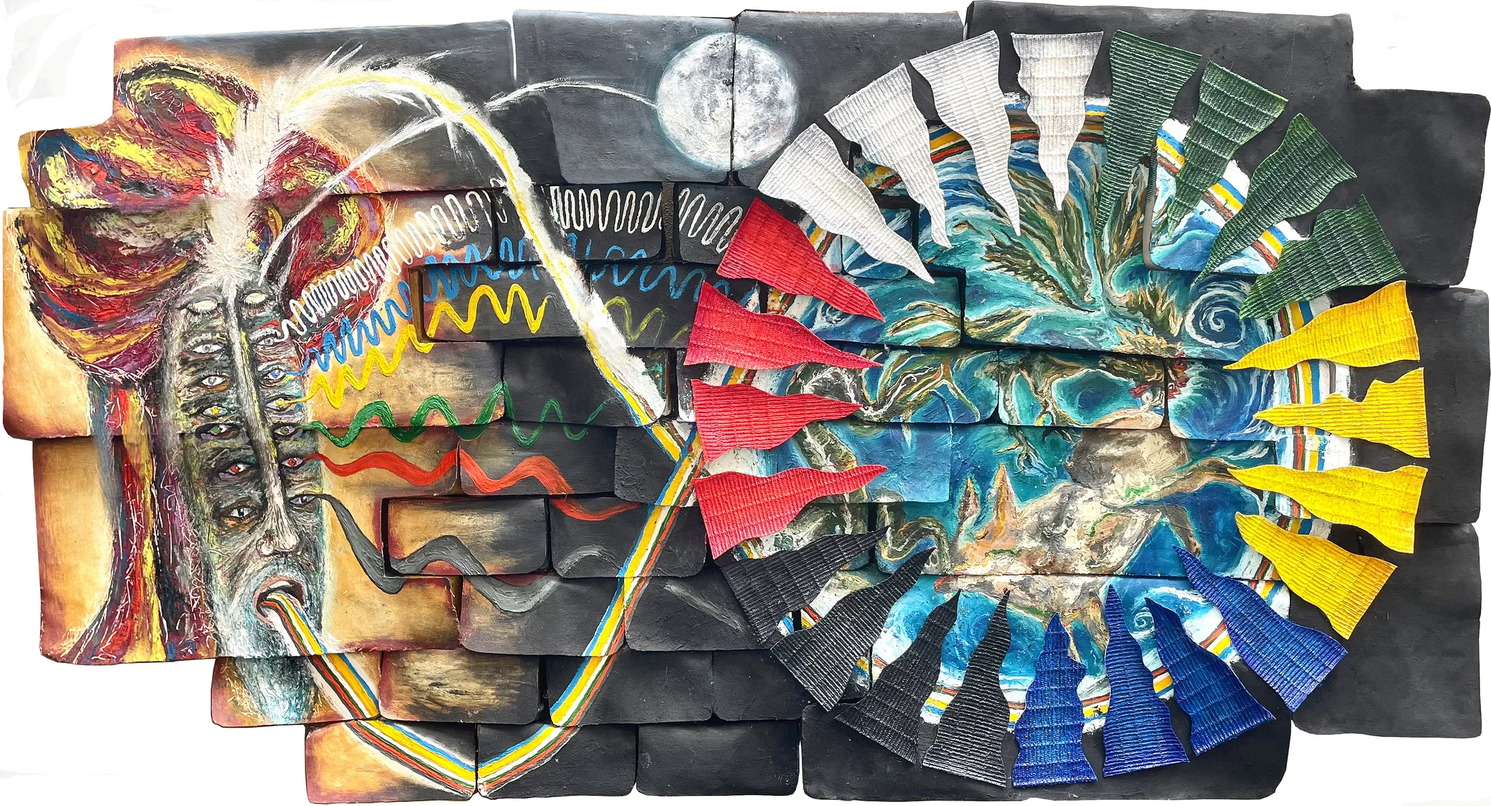
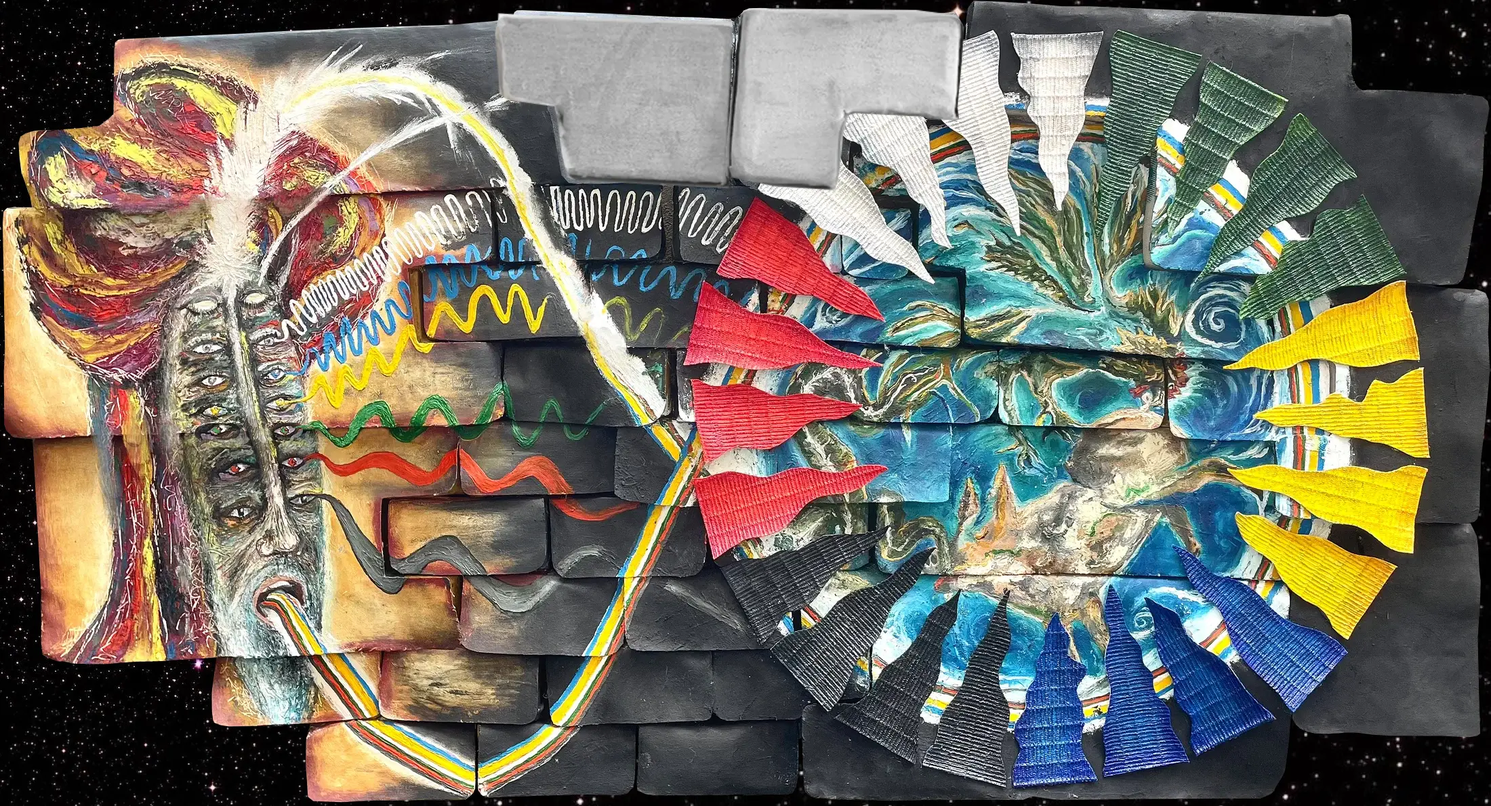
assets: piedras reales + cambios locales Board/Dice/Samsara

diff --git a/src/UI/DicePopup.tsx b/src/UI/DicePopup.tsx
@@ -57,10 +57,7 @@ function CubicDie({ value, rolling, color, size = 76, skin, stone = true }: {
   const pips = PIPS[display] ?? [];
 
   if (stone) {
-    // Carved-stone dice: no real photo texture available, so this is a CSS
-    // approximation — a mottled radial-gradient sphere with drilled-hole
-    // pips, tan/ochre for White and charcoal-grey for Black (matching the
-    // reference photo's two stones).
+    const stoneFaceSrc = skin?.faces?.[display as 1 | 2 | 3 | 4 | 5 | 6] ?? null;
     const stoneBg = isDark ? STONE_GRADIENT.black : STONE_GRADIENT.white;
     const ring = isDark ? STONE_RING.black : STONE_RING.white;
 
@@ -69,42 +66,64 @@ function CubicDie({ value, rolling, color, size = 76, skin, stone = true }: {
         width: size,
         height: size,
         borderRadius: "50%",
-        background: stoneBg,
+        background: stoneFaceSrc ? "#000" : stoneBg,
         border: `1px solid ${ring}`,
         boxShadow: STONE_SHADOW,
         boxSizing: "border-box",
         position: "relative",
+        overflow: "hidden",
         animation: rolling
           ? "dieRoll 0.08s ease-in-out infinite"
           : "dieLand 0.3s cubic-bezier(0.2,0.8,0.4,1) forwards",
         flexShrink: 0,
       }}>
-        {WEATHER_PITS.map(([px, py, pr], i) => (
-          <div key={`w${i}`} style={{
-            position: "absolute",
-            left: `${px * 100}%`,
-            top: `${py * 100}%`,
-            width: size * pr,
-            height: size * pr,
-            transform: "translate(-50%,-50%)",
-            borderRadius: "50%",
-            background: "radial-gradient(circle at 35% 30%, rgba(0,0,0,0.35), rgba(0,0,0,0.12) 70%, transparent 100%)",
-          }} />
-        ))}
-
-        {pips.map(([c, r], i) => (
-          <div key={i} style={{
-            position: "absolute",
-            left: `${((c + 0.5) / 3) * 100}%`,
-            top: `${((r + 0.5) / 3) * 100}%`,
-            width: size * 0.17,
-            height: size * 0.17,
-            transform: "translate(-50%,-50%)",
-            borderRadius: "50%",
-            background: "radial-gradient(circle at 35% 30%, rgba(0,0,0,0.95), rgba(0,0,0,0.65) 55%, rgba(0,0,0,0.3) 100%)",
-            boxShadow: "inset 0 1px 2px rgba(0,0,0,0.9), 0 1px 0 rgba(255,255,255,0.08)",
-          }} />
-        ))}
+        {stoneFaceSrc ? (
+          // Real carved-stone disc photo — see src/assets/dice/primitive/
+          // and src/game/dice/eraDiceSkins.ts. object-fit:cover + the
+          // round clip above crops out the photo's black square corners.
+          <img
+            src={stoneFaceSrc}
+            alt={`face ${display}`}
+            draggable={false}
+            style={{
+              width: "100%",
+              height: "100%",
+              objectFit: "cover",
+              pointerEvents: "none",
+            }}
+          />
+        ) : (
+          <>
+            {/* No photo for this value yet — CSS approximation fallback:
+                mottled gradient sphere with drilled-hole pips. */}
+            <div style={{ position: "absolute", inset: 0, background: stoneBg }} />
+            {WEATHER_PITS.map(([px, py, pr], i) => (
+              <div key={`w${i}`} style={{
+                position: "absolute",
+                left: `${px * 100}%`,
+                top: `${py * 100}%`,
+                width: size * pr,
+                height: size * pr,
+                transform: "translate(-50%,-50%)",
+                borderRadius: "50%",
+                background: "radial-gradient(circle at 35% 30%, rgba(0,0,0,0.35), rgba(0,0,0,0.12) 70%, transparent 100%)",
+              }} />
+            ))}
+            {pips.map(([c, r], i) => (
+              <div key={i} style={{
+                position: "absolute",
+                left: `${((c + 0.5) / 3) * 100}%`,
+                top: `${((r + 0.5) / 3) * 100}%`,
+                width: size * 0.17,
+                height: size * 0.17,
+                transform: "translate(-50%,-50%)",
+                borderRadius: "50%",
+                background: "radial-gradient(circle at 35% 30%, rgba(0,0,0,0.95), rgba(0,0,0,0.65) 55%, rgba(0,0,0,0.3) 100%)",
+                boxShadow: "inset 0 1px 2px rgba(0,0,0,0.9), 0 1px 0 rgba(255,255,255,0.08)",
+              }} />
+            ))}
+          </>
+        )}
 
         <style>{`
           @keyframes dieRoll {
@@ -212,14 +231,17 @@ type Props = {
   onDismiss: () => void;
 };
 
-// Positioned inside the 1100x620 samsaraScene coordinate space, in the gap
-// between Mara's face (eyes sit around x:118-164) and the ring wheel (whose
-// scaled edge starts around x:481). The "roll" portal button lives in the
-// upper half of that same gap (~x:300-390, y:255-345), so the vertical dice
-// stack sits just below it, in the lower half of the gap, to avoid covering
-// it. See GameShell.tsx for where this is mounted.
-const HUD_LEFT = 300;
-const HUD_TOP = 380;
+// Positioned inside the 1100x620 samsaraScene coordinate space, directly
+// above the roll button (the "spinning dice" — nudged down to top:44% in
+// Board.tsx, center ~x:347, y:230-320). Side-by-side (not stacked) so the
+// block only needs ~150px of height instead of ~290px, which is what let
+// it clear every neighbor at once: Mara's eyes (x:118-164, y:178-182),
+// SacredProgress (x:-2-178, y:-3-177), the ring (retreats past x:500+
+// this high up), and the blue Buddha "Dharma Emergencies" icon lower down
+// (~x:434-563, y:456-585). See GameShell.tsx for mount.
+const HUD_LEFT = 214;
+const HUD_TOP = 20;
+const DIE_SIZE = 128; // 2x the original 64px per the 2nd round of feedback
 
 export function DicePopup({ visible, rollA, rollB, rolling, turn, onDismiss }: Props) {
   useEffect(() => {
@@ -247,16 +269,16 @@ export function DicePopup({ visible, rollA, rollB, rolling, turn, onDismiss }: P
         cursor: "pointer",
       }}
     >
-      {/* Los dos dados del turno activo, apilados en columna vertical */}
+      {/* Los dos dados del turno activo, en fila horizontal, encima del botón de tirar */}
       <div style={{
         display: "flex",
         flexDirection: "column",
-        gap: 14,
+        gap: 6,
         alignItems: "center",
         filter: "drop-shadow(0 8px 24px rgba(0,0,0,0.7))",
       }}>
         <div style={{
-          fontSize: 11,
+          fontSize: 12,
           fontWeight: 800,
           letterSpacing: 1.2,
           textTransform: "uppercase",
@@ -265,8 +287,10 @@ export function DicePopup({ visible, rollA, rollB, rolling, turn, onDismiss }: P
         }}>
           {label}
         </div>
-        <CubicDie value={rollA} rolling={rolling} color={color} size={64} skin={skin} />
-        <CubicDie value={rollB} rolling={rolling} color={color} size={64} skin={skin} />
+        <div style={{ display: "flex", flexDirection: "row", gap: 10 }}>
+          <CubicDie value={rollA} rolling={rolling} color={color} size={DIE_SIZE} skin={skin} />
+          <CubicDie value={rollB} rolling={rolling} color={color} size={DIE_SIZE} skin={skin} />
+        </div>
       </div>
     </div>
   );

diff --git a/src/game/dice/eraDiceSkins.ts b/src/game/dice/eraDiceSkins.ts
@@ -12,16 +12,20 @@
 // deleted — see src/assets/dice/dice_white_portal.* and
 // src/assets/dice/dice_black_portal.* — it's simply not the active skin
 // right now. It stays available for a future era to reuse.
+//
+// The original placeholder leaf/clover SVGs (face_1.svg...face_6.svg) are
+// also kept in src/assets/dice/primitive/ but are no longer imported here —
+// replaced by the real carved-stone disc photos below.
 
 import type { EraId } from "../era";
 import { CURRENT_ERA } from "../era";
 
-import leafOne from "../../assets/dice/primitive/face_1.svg";
-import leafTwo from "../../assets/dice/primitive/face_2.svg";
-import cloverThree from "../../assets/dice/primitive/face_3.svg";
-import cloverFour from "../../assets/dice/primitive/face_4.svg";
-import leafFive from "../../assets/dice/primitive/face_5.svg";
-import leafSix from "../../assets/dice/primitive/face_6.svg";
+import discOne from "../../assets/dice/primitive/disco_1_hoja.webp";
+import discTwo from "../../assets/dice/primitive/disco_2_hojas.webp";
+import discThree from "../../assets/dice/primitive/disco_3_colmillos.webp";
+import discFour from "../../assets/dice/primitive/disco_4_manos.webp";
+import discFive from "../../assets/dice/primitive/disco_5_lanzas.webp";
+import discSix from "../../assets/dice/primitive/disco_6_huesos.webp";
 
 export type DiceFaceValue = 1 | 2 | 3 | 4 | 5 | 6;
 
@@ -32,18 +36,18 @@ export interface DiceSkin {
   faces: Record<DiceFaceValue, string>;
 }
 
-// Provisional Era 1 dice — inspired by 2.5 million years of nature: leaves
-// and clovers standing in for pips. Placeholder art, not final design.
+// Era 1 dice — carved stone/bone discs: 1 leaf, 2 leaves, 3 fangs, 4 hands,
+// 5 spears, 6 bones. Real reference photos, dropped in by hand.
 export const PRIMITIVE_DICE_SKIN: DiceSkin = {
-  id: "primitive-leaves",
-  label: "Primitive Era — Leaves & Clovers",
+  id: "primitive-stone-discs",
+  label: "Primitive Era — Stone Discs",
   faces: {
-    1: leafOne,
-    2: leafTwo,
-    3: cloverThree,
-    4: cloverFour,
-    5: leafFive,
-    6: leafSix,
+    1: discOne,
+    2: discTwo,
+    3: discThree,
+    4: discFour,
+    5: discFive,
+    6: discSix,
   },
 };
 

diff --git a/src/game/Board.tsx b/src/game/Board.tsx
@@ -1,6 +1,6 @@
 import React, { useEffect, useRef, useState } from "react";
 import type { GameState, MoveOption, PieceKind, BasePieceKind, PlayerId } from "./types";
-import {  cellStyle as ringCellStyle, RING_SIZE,  piecePosition,} from "../UI/geometry";
+import {  cellStyle as ringCellStyle, RING_SIZE,  piecePosition, CELL,} from "../UI/geometry";
 import { realmFromPos, REALM_LABEL, pickLine } from "../UI/realm";
 import { ExplainModal } from "../UI/ExplainModal";
 import { MoveEmanations } from "../UI/MoveEmanations";
@@ -232,16 +232,23 @@ function getStackedTokenPosition({
   wheelCenter: { x: number; y: number };
   spacing?: number;
 }) {
+  // `base.left/top` come from piecePosition(), which sizes them for a
+  // CELL x CELL (44x44) box — i.e. base.left = trueCenterX - CELL/2. The
+  // true cell-circle center has to be recovered using CELL here, not
+  // `pieceSize`: using pieceSize instead (the piece's own rendered size)
+  // silently drags every token off-center by (pieceSize-CELL)/2 px,
+  // growing worse the bigger a piece gets drawn (this is what made the
+  // enlarged Pig visibly drift down-right off the cell circle).
+  const cellCenterX = base.left + CELL / 2;
+  const cellCenterY = base.top + CELL / 2;
+
   if (totalInStack <= 1) {
     return {
-      left: base.left,
-      top: base.top,
+      left: cellCenterX - pieceSize / 2,
+      top: cellCenterY - pieceSize / 2,
       zIndex: 40,
     };
   }
-
-  const cellCenterX = base.left + pieceSize / 2;
-  const cellCenterY = base.top + pieceSize / 2;
 
   const dx = wheelCenter.x - cellCenterX;
   const dy = wheelCenter.y - cellCenterY;
@@ -733,7 +740,7 @@ filter:"drop-shadow(0 0 7px rgba(255,255,255,.95))"
   className="samsaraDicePortalButton"
   onClick={onRoll}
   title="Roll dice"
-  style={{ top: "40%" }}
+  style={{ top: "44%" }}
 >
     {USE_LEGACY_PORTAL_DICE_ART ? (
       <img
